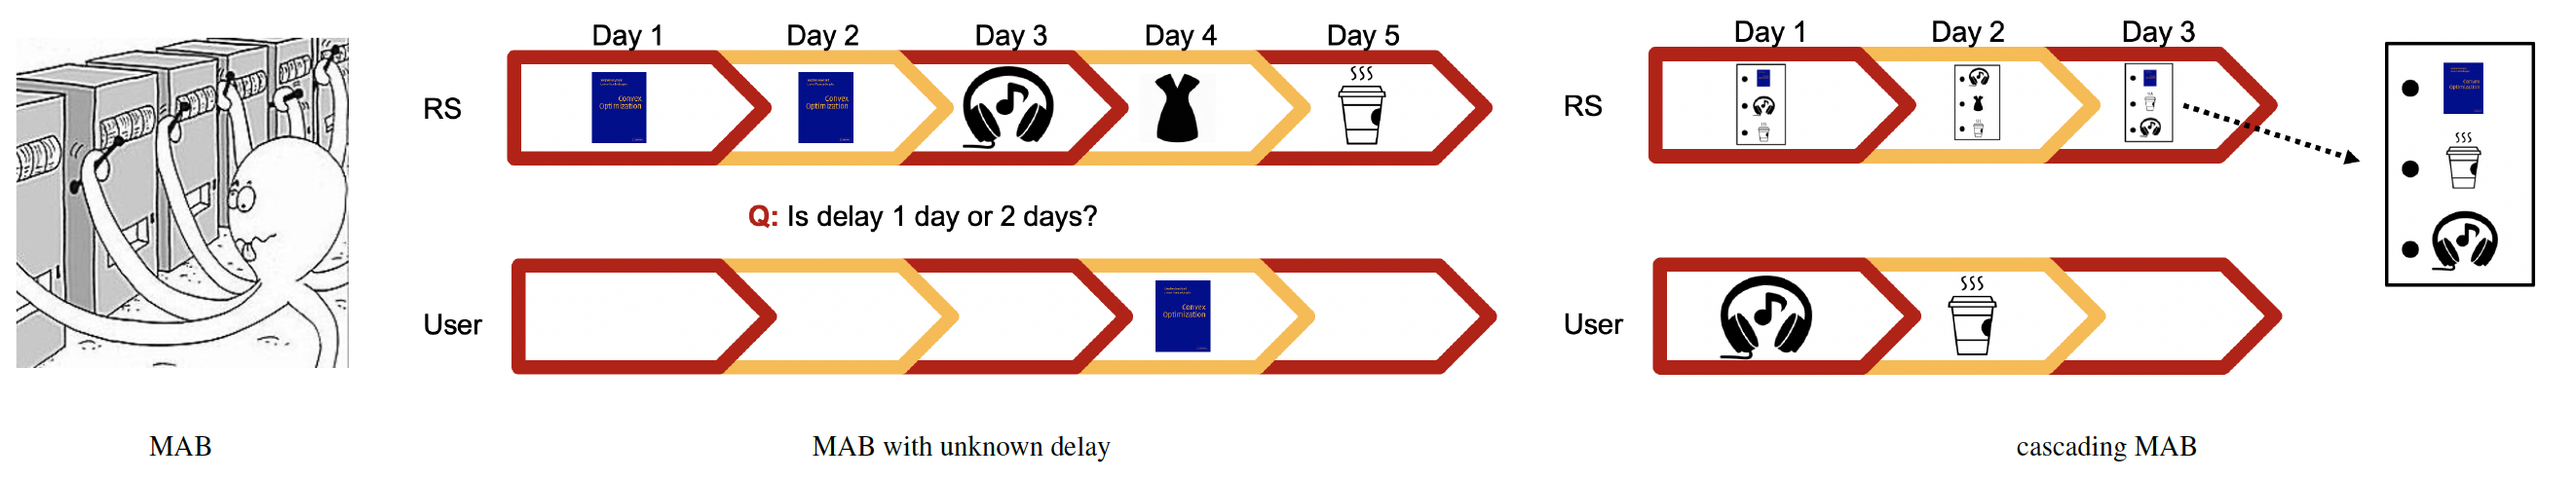
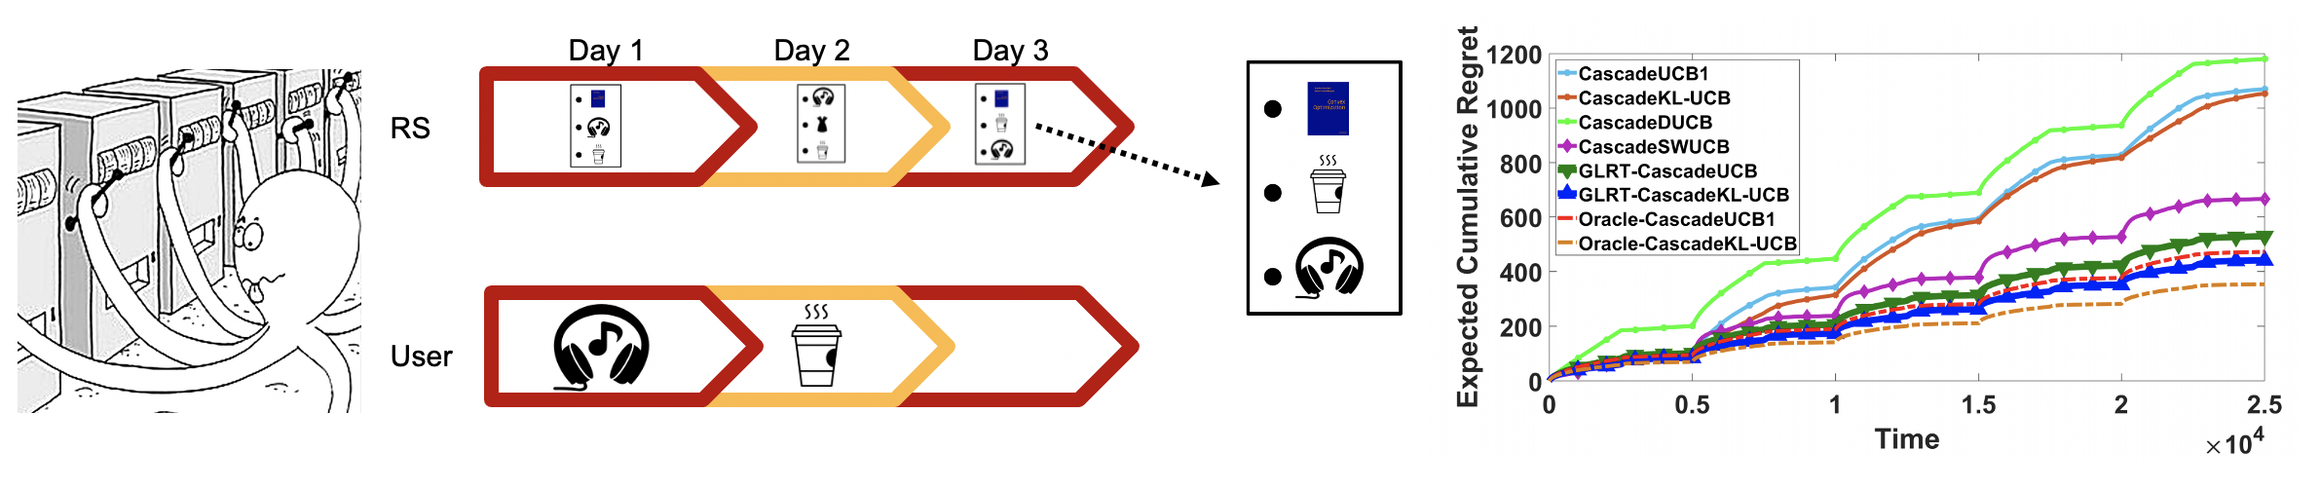
Add files via upload

diff --git a/research.html b/research.html
@@ -55,16 +55,16 @@ We introduced and analyzed two FW variants, termed <tt>AFW</tt> and <tt>ExtraFW<
 </li>
 </ol>
 <h2>Large-scale optimization and federated learning</h2>
-<p>The widespread consensus on future machine learning is that tasks should be performed locally on device directly to handle critical issues such as data privacy, data security, and heterogeneous data. Federated learning (FL) is a general framework in pursuit of this goal; see a few introductory <a href="https://federated.withgoogle.com/">comics from Google AI</a>. Next we emphasize FL's application in <tt>Internet of Things (IoT)</tt> using some of our works as examples.</p>
+<p>The widespread consensus on future machine learning is that tasks should be performed locally on device directly to handle critical issues such as data privacy, data security, and heterogeneous data. Federated learning (FL) is a general framework in pursuit of this goal. Next we emphasize FL's application in <tt>Internet of Things (IoT)</tt> using some of our works as examples.</p>
 <table class="imgtable"><tr><td>
-<img src="FL.png" alt="This pic will be updated soon." width="950px" height="290px" />&nbsp;</td>
+<img src="distributed.png" alt="This pic will be updated soon." width="1000px" height="180px" />&nbsp;</td>
 <td align="left"></td></tr></table>
 <ul>
-<li><p><i>General theory.</i> In a FL setting with a central server and multiple workers, many existing approaches aim to reduce the upload communication but not the download overhead. Consequently, the overall improvement of communication efficiency is still limited. We propose <tt>TWICE</tt>, a method that advocates compressing both upload and download innovation with guaranteed benefits. Another line of research addresses the challenges in asynchrony and delay due to e.g., IoT mobility and heterogeneity. In this context, we have developed algorithms for delayed online learning that can be run asynchronously on servers without sacrificing too much performance.</p>
+<li><p><i>General theory.</i> In a FL setting with a central server and multiple workers, many existing approaches aim to reduce the upload communication but not the download overhead. Consequently, the overall improvement of communication efficiency is still limited. We propose <tt>TWICE</tt>, a method that advocates compressing both upload and download innovation with guaranteed benefits; see the table above numerical performance. Another line of research addresses the challenges in asynchrony and delay due to e.g., IoT mobility and heterogeneity. In this context, we have developed <tt>DEXP3</tt> for delayed online learning that can be run asynchronously on servers without sacrificing too much performance; see the first figure above.</p>
 </li>
 </ul>
 <ul>
-<li><p><i>Specific applications.</i> FL is extremely suitable for IoT due to its scalability and robustness. As an example, consider an online energy management task in smart grids where the goal is learning to dispatch power in the most economical manner with the aid of renewables while maintaining the energy level of batteries stable in long-run. This specific &ldquo;stability&rdquo; requirement challenges the standard deployment of FL. We thus provide an elegant solution so that the requirement on the battery capacity to prevent overcharging is greatly reduced. In a parallel work, FL is leveraged in edge computing setups so that devices can collaboratively handle adversarial jammers. In a nutshell, we see great potential of FL in various IoT applications, with the ultimate goal of benefiting everyone's daily life.</p>
+<li><p><i>Specific applications.</i> FL is extremely suitable for IoT due to its scalability and robustness. As an example, consider an online energy management task in smart grids where the goal is learning to dispatch power in the most economical manner with the aid of renewables while maintaining the energy level of batteries stable in long-run. This specific &ldquo;stability&rdquo; requirement challenges the standard deployment of FL. We thus provide an elegant solution so that the requirement on the battery capacity to prevent overcharging is greatly reduced; see the green line in the last figure above. In a parallel work, FL is leveraged in edge computing setups so that devices can collaboratively handle adversarial jammers. In a nutshell, we see great potential of FL in various IoT applications, with the ultimate goal of benefiting everyone's daily life.</p>
 </li>
 </ul>
 <p><b>Relevant works</b></p>
@@ -81,14 +81,14 @@ We introduced and analyzed two FW variants, termed <tt>AFW</tt> and <tt>ExtraFW<
 <h2>Multi-armed bandits and their applications</h2>
 <p>The multi-armed bandit (MAB) problem models a scenario where the learner copes with the &ldquo;exploration-exploitation&rdquo; dilemma to interactively learn from the environment. MAB is widely adopted in recommender systems, e.g., web search and online advertising, because its simple yet powerful framework facilitates sequential decision making under uncertainties. My background leans toward adversarial bandits, but still have a fair understanding on those stochastic ones. </p>
 <table class="imgtable"><tr><td>
-<img src="bandit.png" alt="This pic will be updated soon." width="950px" height="180px" />&nbsp;</td>
+<img src="bandit.png" alt="This pic will be updated soon." width="1000px" height="200px" />&nbsp;</td>
 <td align="left"></td></tr></table>
 <ul>
 <li><p><i>General theory.</i> Sometimes the traditional MAB model is oversimplified to capture real behaviors in recommender systems. We have developed provably efficient algorithms to handle two particular scenarios: MAB with unknown delay, and contextual MAB with graph feedback; see the above figure. Technically, our solutions rely on two <i>biased</i> estimators in contrast with typically adopted unbiased ones. Theoretical justifications are established to showcase that the proposed methods can indeed handle the target scenarios efficiently.</p>
 </li>
 </ul>
 <ul>
-<li><p><i>A Specific application.</i> Despite aforementioned MAB theories can more or less find their applications in recommender systems, here we consider a more detailed setting, where the user preferences change in a piecewise-stationary manner in <i>cascading bandits</i>. In this context, the recommender system chooses a list of items for the user; and the user browses this list in order until clicking on the first attractive item. New approaches based on change-point detection techniques are developed with supportive theories and numerical experiments.</p>
+<li><p><i>A Specific application.</i> Despite aforementioned MAB theories can more or less find their applications in recommender systems, here we consider a more detailed setting, where the user preferences change in a piecewise-stationary manner in <i>cascading bandits</i>. In this context, the recommender system chooses a list of items for the user; and the user browses this list in order until clicking on the first attractive item. New approaches based on <tt>GLRT</tt> for change-point detection are developed with supportive theories and numerical experiments; see the figures above.</p>
 </li>
 </ul>
 <p><b>Relevant works</b></p>
@@ -100,7 +100,7 @@ We introduced and analyzed two FW variants, termed <tt>AFW</tt> and <tt>ExtraFW<
 </ol>
 <div id="footer">
 <div id="footer-text">
-Page generated 2020-12-22 22:13:49 CST, by <a href="http://jemdoc.jaboc.net/">jemdoc</a>.
+Page generated 2020-12-25 16:14:41 CST, by <a href="http://jemdoc.jaboc.net/">jemdoc</a>.
 </div>
 </div>
 </td>

diff --git a/index.html b/index.html
@@ -33,7 +33,7 @@ Email: lixx5599 AT umn.edu </p>
 </td></tr></table>
 <h2>About Me</h2>
 <p>I am a Ph.D. student at University of Minnesota working with <a href="http://spincom.umn.edu/">Signal Processing in Networking and Communications (SPiNCOM)</a> group under the supervision of <a href="http://spincom.umn.edu/georgios/">Prof. Georgios B. Giannakis</a>. </p>
-<p>My current research interests span <tt>optimization</tt>, <tt>machine learning</tt>, <tt>signal processing</tt>, and their applications in <tt>Internet of Things (IoT)</tt>, and <tt>networking</tt>. More about my research can be found <a href="research.html">here</a>.</p>
+<p>My current research interests span <tt>optimization</tt>, <tt>machine learning</tt>, <tt>signal processing</tt>, and their applications in <tt>communication</tt>, and <tt>networking</tt>. More about my research can be found <a href="research.html">here</a>.</p>
 <h2>Education</h2>
 <ul>
 <li><p><a href="https://twin-cities.umn.edu/">University of Minnesota</a>, USA: Ph.D student, Electrical and Computer Engineering, advised by <a href="http://spincom.umn.edu/georgios/">Prof. Georgios B. Giannakis</a>, 2017.9 - present.</p>
@@ -43,7 +43,7 @@ Email: lixx5599 AT umn.edu </p>
 </ul>
 <div id="footer">
 <div id="footer-text">
-Page generated 2020-12-22 21:04:52 CST, by <a href="http://jemdoc.jaboc.net/">jemdoc</a>.
+Page generated 2020-12-25 15:17:53 CST, by <a href="http://jemdoc.jaboc.net/">jemdoc</a>.
 </div>
 </div>
 </td>

diff --git a/publications.html b/publications.html
@@ -121,19 +121,17 @@ A. Sadeghi, M. Ma, <b>B. Li</b>, and G. B. Giannakis <br />
 <h2>Technical Notes</h2>
 <ul>
 <li><p><a href="https://arxiv.org/pdf/1910.06532.pdf">Adaptive Step Sizes in Variance Reduction via Regularization</a> <br />
-<b>B. Li</b>, and G. B. Giannakis <br />
-<i>Extension of our <a href="http://proceedings.mlr.press/v119/li20n/li20n.pdf">ICML 2020 paper</a></i>.</p>
+<b>B. Li</b>, and G. B. Giannakis.</p>
 </li>
 </ul>
 <ul>
 <li><p><a href="https://arxiv.org/pdf/1905.10456.pdf">Tight Linear Convergence Rate of ADMM for Decentralized Optimization</a><br />
-M. Ma, <b>B. Li</b>, and G. B. Giannakis <br />
-<i>Extension of an <a href="https://web.stanford.edu/~boyd/papers/pdf/metric_select_DR_ADMM.pdf">IEEE TAC 2017 paper</a></i>. </p>
+M. Ma, <b>B. Li</b>, and G. B. Giannakis. </p>
 </li>
 </ul>
 <div id="footer">
 <div id="footer-text">
-Page generated 2020-12-22 21:05:22 CST, by <a href="http://jemdoc.jaboc.net/">jemdoc</a>.
+Page generated 2020-12-25 15:04:31 CST, by <a href="http://jemdoc.jaboc.net/">jemdoc</a>.
 </div>
 </div>
 </td>
